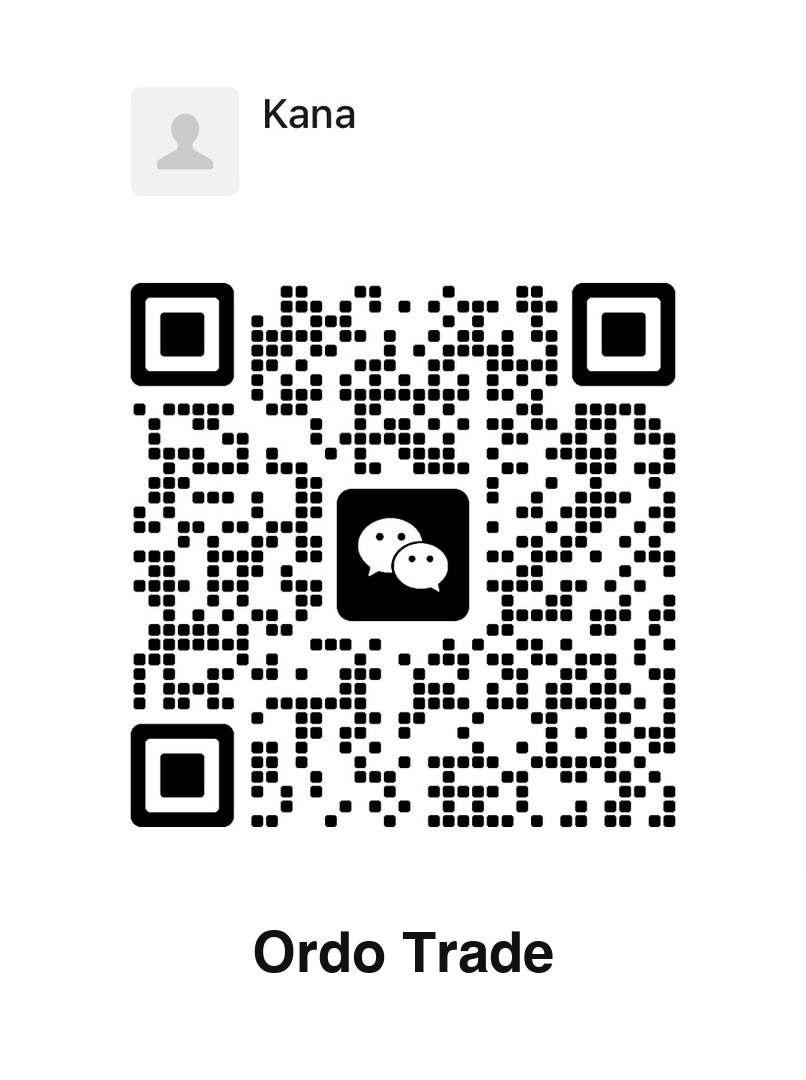
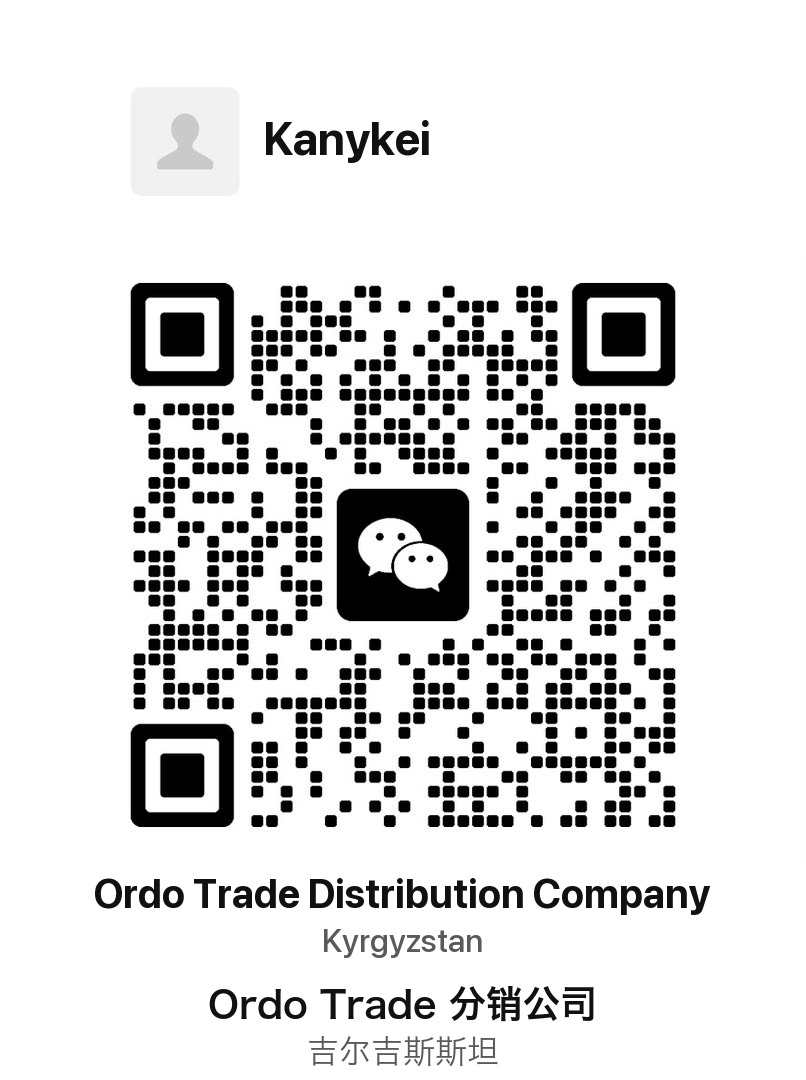
Cards: first names, Ordo Trade Distribution Company, Kyrgyzstan EN/CN

Changed region(s): [[0.1241, 0.7944, 0.8995, 1.0], [0.3102, 0.0917, 0.5583, 0.1528]]

diff --git a/aigerim/index.html b/aigerim/index.html
@@ -3,7 +3,7 @@
 <head>
 <meta charset="utf-8">
 <meta name="viewport" content="width=device-width, initial-scale=1">
-<title>Aigerim Seiitkulova · Ordo Trade</title>
+<title>Aigerim · Ordo Trade</title>
 <style>
   * { box-sizing:border-box; }
   body { margin:0; background:#fff; color:#111;
@@ -16,7 +16,7 @@
 </head>
 <body>
 <div class="wrap">
-  <img class="qr" src="../img/aigerim.jpg" alt="WeChat QR · Aigerim Seiitkulova">
+  <img class="qr" src="../img/aigerim.jpg" alt="WeChat QR · Aigerim">
   <a class="btn" href="https://wa.me/996702310333">WhatsApp</a>
 </div>
 </body>

diff --git a/erlan/index.html b/erlan/index.html
@@ -3,7 +3,7 @@
 <head>
 <meta charset="utf-8">
 <meta name="viewport" content="width=device-width, initial-scale=1">
-<title>Mr. Erlan Seiitkulov · Ordo Trade</title>
+<title>Erlan · Ordo Trade</title>
 <style>
   * { box-sizing:border-box; }
   body { margin:0; background:#fff; color:#111;
@@ -16,7 +16,7 @@
 </head>
 <body>
 <div class="wrap">
-  <img class="qr" src="../img/erlan.jpg" alt="WeChat QR · Mr. Erlan Seiitkulov">
+  <img class="qr" src="../img/erlan.jpg" alt="WeChat QR · Erlan">
   <a class="btn" href="https://wa.me/996555474719">WhatsApp</a>
 </div>
 </body>

diff --git a/kanykei/index.html b/kanykei/index.html
@@ -3,7 +3,7 @@
 <head>
 <meta charset="utf-8">
 <meta name="viewport" content="width=device-width, initial-scale=1">
-<title>Kanykei Kazieva · Ordo Trade</title>
+<title>Kanykei · Ordo Trade</title>
 <style>
   * { box-sizing:border-box; }
   body { margin:0; background:#fff; color:#111;
@@ -16,7 +16,7 @@
 </head>
 <body>
 <div class="wrap">
-  <img class="qr" src="../img/kanykei.jpg" alt="WeChat QR · Kanykei Kazieva">
+  <img class="qr" src="../img/kanykei.jpg" alt="WeChat QR · Kanykei">
   <a class="btn" href="https://wa.me/996501337773">WhatsApp</a>
 </div>
 </body>

diff --git a/rakhat/index.html b/rakhat/index.html
@@ -3,7 +3,7 @@
 <head>
 <meta charset="utf-8">
 <meta name="viewport" content="width=device-width, initial-scale=1">
-<title>Rakhat Omurbekova · Ordo Trade</title>
+<title>Rakhat · Ordo Trade</title>
 <style>
   * { box-sizing:border-box; }
   body { margin:0; background:#fff; color:#111;
@@ -16,7 +16,7 @@
 </head>
 <body>
 <div class="wrap">
-  <img class="qr" src="../img/rakhat.jpg" alt="WeChat QR · Rakhat Omurbekova">
+  <img class="qr" src="../img/rakhat.jpg" alt="WeChat QR · Rakhat">
   <a class="btn" href="https://wa.me/996558635885">WhatsApp</a>
 </div>
 </body>

diff --git a/make_images.py b/make_images.py
@@ -1,0 +1,80 @@
+"""Из исходных скринов WeChat (src/) делает img/<slug>.jpg: имя сверху, внизу компания и страна на EN/中文."""
+import pathlib
+import numpy as np
+from PIL import Image, ImageDraw, ImageFont
+
+OUT = pathlib.Path(__file__).parent
+SF = "/System/Library/Fonts/SFNS.ttf"
+CN = "/System/Library/Fonts/Hiragino Sans GB.ttc"
+
+# slug, файл исходника, имя
+CARDS = [
+    ("kanykei", "kana.jpg", "Kanykei"),
+    ("aigerim", "aika.jpg", "Aigerim"),
+    ("rakhat", "rahat.jpg", "Rakhat"),
+    ("erlan", "erlan.jpg", "Erlan"),
+]
+
+LINES = [  # текст, шрифт, доля ширины, цвет
+    ("Ordo Trade Distribution Company", "sf-bold", 0.050, (17, 17, 17)),
+    ("Kyrgyzstan", "sf", 0.042, (90, 90, 90)),
+    ("Ordo Trade 分销公司", "cn-bold", 0.046, (17, 17, 17)),
+    ("吉尔吉斯斯坦", "cn", 0.040, (90, 90, 90)),
+]
+
+
+def font(kind, size):
+    if kind.startswith("cn"):
+        return ImageFont.truetype(CN, size, index=2 if kind == "cn-bold" else 0)
+    f = ImageFont.truetype(SF, size)
+    f.set_variation_by_name("Bold" if kind == "sf-bold" else "Medium")
+    return f
+
+
+def build(slug, src, name):
+    im = Image.open(OUT / "src" / src).convert("RGB")
+    w, h = im.size
+    g = np.array(im.convert("L")).astype(int)
+    dark = np.where((g < 140).sum(1) > 5)[0]
+    qr_bottom = dark.max()
+    qr_top = dark[dark > h * 0.2].min()
+    # аватарка: первая непустая колонка слева в шапке и её правый край
+    head = g[60:qr_top - 40]
+    cols = np.where((head < 250).sum(0) > 20)[0]
+    av_left = cols.min()
+    av_right = av_left
+    while av_right + 1 in cols:  # аватарка — первый сплошной блок колонок
+        av_right += 1
+    rows = np.where((g[:, av_left:av_right] < 250).sum(1) > 20)[0]
+    av_top, av_bot = rows.min(), rows[rows < qr_top - 40].max()
+
+    d = ImageDraw.Draw(im)
+    # шапка: стираем старое имя, пишем новое по центру высоты аватарки
+    d.rectangle([av_right + 4, 40, w, qr_top - 30], fill="white")
+    f = font("sf-bold", int(w * 0.058))
+    bb = d.textbbox((0, 0), name, font=f)
+    d.text((av_right + int(w * 0.03) - bb[0], (av_top + av_bot) // 2 - (bb[1] + bb[3]) // 2),
+           name, font=f, fill=(17, 17, 17))
+
+    # подвал
+    top = qr_bottom + int(w * 0.05)
+    d.rectangle([0, top, w, h], fill="white")
+    gap = int(w * 0.018)
+    items = []
+    for text, kind, k, color in LINES:
+        f = font(kind, int(w * k))
+        bb = d.textbbox((0, 0), text, font=f)
+        items.append((text, f, bb, color))
+    total = sum(b[3] - b[1] for _, _, b, _ in items) + gap * (len(items) - 1) + gap  # доп. отступ между EN и CN
+    y = top + ((h - top) - total) // 2
+    for i, (text, f, bb, color) in enumerate(items):
+        if i == 2:
+            y += gap
+        d.text(((w - (bb[2] - bb[0])) // 2 - bb[0], y - bb[1]), text, font=f, fill=color)
+        y += bb[3] - bb[1] + gap
+    im.save(OUT / "img" / f"{slug}.jpg", quality=92)
+
+
+for slug, src, name in CARDS:
+    build(slug, src, name)
+    print(slug, "ok")

diff --git a/build.py b/build.py
@@ -4,10 +4,10 @@ import pathlib
 OUT = pathlib.Path(__file__).parent
 
 PEOPLE = [
-    ("kanykei", "Kanykei Kazieva", "+996501337773"),
-    ("aigerim", "Aigerim Seiitkulova", "+996702310333"),
-    ("rakhat", "Rakhat Omurbekova", "+996558635885"),
-    ("erlan", "Mr. Erlan Seiitkulov", "+996555474719"),
+    ("kanykei", "Kanykei", "+996501337773"),
+    ("aigerim", "Aigerim", "+996702310333"),
+    ("rakhat", "Rakhat", "+996558635885"),
+    ("erlan", "Erlan", "+996555474719"),
 ]
 
 TEMPLATE = open(OUT / "template.html", encoding="utf-8").read()
